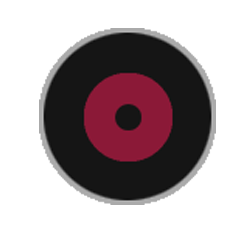
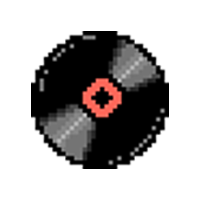
Final Assets Replacement & UFO Beam by Wren Wu.

Changed region(s): [[0.15, 0.12, 0.87, 0.9]]

diff --git a/src/GameScene.js b/src/GameScene.js
@@ -59,6 +59,8 @@ var switchDirections = false;
 var ScoreBoardTextArray = new Array();
 var Panel;
 var Image5S;
+var IfPunish5S = false;
+var Popupfactor = 0;
 
 
 var Bullet = new Phaser.Class({
@@ -138,9 +140,8 @@ function ShowPanel(data)
     }
   }
   Panel.setVisible(true)
-  Panel.alpha = 0.75;
+  Panel.alpha = 1.0;
 }
-
 function IndicatorCreate(BeamL, BeamR, Speed, AlphaFactor)
 {
   BeamL.alpha += AlphaFactor;
@@ -172,10 +173,10 @@ function DiscPulsing(DiscObject)
 {
   if(IfExpand)
   {
-    scale = Phaser.Math.Interpolation.SmoothStep(Pulsingfactor, 1.0, 1.2);//[1.0, 1.2]
+    scale = Phaser.Math.Interpolation.SmoothStep(Pulsingfactor, 1.0, 1.4);//[1.0, 1.2]
     Pulsingfactor += 0.16;
     DiscObject.setScale(scale);
-    if(scale >= 1.2)
+    if(scale >= 1.4)
     {
       IfExpand = false;
       IfShrink = true;
@@ -184,7 +185,7 @@ function DiscPulsing(DiscObject)
   }
   if(IfShrink)
   {
-    scale = Phaser.Math.Interpolation.SmoothStep(Pulsingfactor, 1.2, 1.0);//[1.2, 1.0]
+    scale = Phaser.Math.Interpolation.SmoothStep(Pulsingfactor, 1.4, 1.0);//[1.2, 1.0]
     Pulsingfactor += 0.16;
     DiscObject.setScale(scale);
     if(scale <= 1.0)
@@ -198,8 +199,17 @@ function DiscPulsing(DiscObject)
   }
   //console.log(scale)
 }
-
-
+function AddFiveSeconds(Image5S)
+{
+    posiy = Phaser.Math.Interpolation.SmoothStep(Popupfactor, 100, -150);
+    Popupfactor += 0.015;
+    Image5S.y = posiy;
+    if(Image5S.y <= -150)
+    {
+      IfPunish5S = false;
+      Popupfactor = 0;
+    }
+}
 function PlayerWin()
 {
   //TODO: WIN EFFECT
@@ -287,7 +297,16 @@ function ExitGame()
   //console.log(Name);
   game.scene.start("MenuScene",{Playername: scene.Playername});
 }
-
+function CreateUFOBeam(EnemyOject)
+{
+  UFOBeam.setPosition(EnemyOject.x, EnemyOject.y - 30);
+  UFOBeam.setAlpha(0.7);
+  UFOBeam.anims.play("UFOBeam_anim");
+  UFOBeam.once('animationcomplete', ()=>{
+    //console.log("Enemy Destroy")
+    EnemyOject.setActive(false).setVisible(false);
+  });
+}
 //isMoveByForce = true;
 function SwitchInputMode()
 {
@@ -339,35 +358,6 @@ function preload ()
 {
   // Load in images and sprites
   console.log("GameScene Loaded");
-  /*
-  this.load.spritesheet('player_handgun', 'assets/player_handgun.png',
-      { frameWidth: 66, frameHeight: 60 }
-  ); // Made by tokkatrain: https://tokkatrain.itch.io/top-down-basic-set
-  */
-
-  this.load.image('Player','assets/Sprites/Character_back1.png');
-  this.load.image('Player2','assets/Sprites/Character_back2.png');
-
-  this.load.image('Enemy1_1','assets/Sprites/enemy_a1.png');
-  this.load.image('Enemy2_1','assets/Sprites/enemy_b1.png');
-  this.load.image('Enemy3_1','assets/Sprites/enemy_c1.png');
-
-  this.load.image('Enemy1_2','assets/Sprites/enemy_a2.png');
-  this.load.image('Enemy2_2','assets/Sprites/enemy_b2.png');
-  this.load.image('Enemy3_2','assets/Sprites/enemy_c2.png');
-
-  this.load.image('projectile1','assets/Sprites/projectile1.png');
-  this.load.image('projectile2','assets/Sprites/projectile2.png');
-  this.load.image('projectile3','assets/Sprites/projectile3.png');
-  this.load.image('projectile4','assets/Sprites/projectile4.png');
-
-  this.load.image('background', 'assets/Sprites/background_v2.png');
-  this.load.image('Barrier','assets/Sprites/barrier.png');
-  this.load.image('Barrier2','assets/Sprites/barrier2.png');
-  this.load.image('Barrier3','assets/Sprites/barrier3.png');
-  this.load.image('Barrier4','assets/Sprites/barrier4.png');
-  this.load.image('Panel', 'assets/Panel.png');
-  this.load.image('5s','assets/Sprites/5S.png');
 }
 
 function BulletHitCallback(playerBullet, enemyBullet)
@@ -397,17 +387,30 @@ function create ()
   console.log(this.Playername);
   // Set score tracking bar
   scoreText = this.add.text(8, -68, 'Time: < 0 >', { fontFamily: 'font1', fontSize: '48px', fill: '#e0e0e0' }).setDepth(1);
-  Image5S = this.add.image(150,-5,"5s").setDepth(0).setAlpha(0);
+  Image5S = this.add.image(150,-5,"+5s").setDepth(2).setAlpha(0).setScale(1.5);
 
   // Set Indicator
-  Disc = this.add.image(this.game.renderer.width, this.game.renderer.height * 2 - 250, "disc").setDepth(1);
-  Disc.setAlpha(0.6);
-  BeamL1 = this.add.image(0, this.game.renderer.height * 2 - 250, "beam").setDepth(0).setAlpha(0);
-  BeamR1 = this.add.image(1600, this.game.renderer.height * 2 - 250, "beam").setDepth(0).setAlpha(0);
-  BeamL2 = this.add.image(0, this.game.renderer.height * 2 - 250, "beam").setDepth(0).setAlpha(0);
-  BeamR2 = this.add.image(1600, this.game.renderer.height * 2 - 250, "beam").setDepth(0).setAlpha(0);
-  BeamL3 = this.add.image(0, this.game.renderer.height * 2 - 250, "beam").setDepth(0).setAlpha(0);
-  BeamR3 = this.add.image(1600, this.game.renderer.height * 2 - 250, "beam").setDepth(0).setAlpha(0);
+  DiscMechine = this.add.image(this.game.renderer.width, this.game.renderer.height * 2 - 250, "discmechine").setDepth(1);
+  DiscBar = this.add.image(this.game.renderer.width + 45, this.game.renderer.height * 2 - 230, "discbar").setDepth(3);
+  Disc = this.add.image(this.game.renderer.width, this.game.renderer.height * 2 - 250, "disc").setDepth(2);
+  Disc.setAlpha(0.9);
+  BeamL1 = this.add.image(0, this.game.renderer.height * 2 - 250, "beam").setDepth(1).setAlpha(0);
+  BeamR1 = this.add.image(1600, this.game.renderer.height * 2 - 250, "beam").setDepth(1).setAlpha(0);
+  BeamL2 = this.add.image(0, this.game.renderer.height * 2 - 250, "beam").setDepth(1).setAlpha(0);
+  BeamR2 = this.add.image(1600, this.game.renderer.height * 2 - 250, "beam").setDepth(1).setAlpha(0);
+  BeamL3 = this.add.image(0, this.game.renderer.height * 2 - 250, "beam").setDepth(1).setAlpha(0);
+  BeamR3 = this.add.image(1600, this.game.renderer.height * 2 - 250, "beam").setDepth(1).setAlpha(0);
+
+  // Set UFO Beam Animation
+  UFOBeam = this.add.sprite(this.game.renderer.width, this.game.renderer.height, "ufobeam").setDepth(1).setAlpha(0).setScale(1.5);
+  this.anims.create({
+    key: "UFOBeam_anim",
+    frames: this.anims.generateFrameNumbers("ufobeam"),
+    frameRate: 36,
+    repeat: 0,
+    showOnStart: true,
+    hideOnComplete: true
+  })
 
   // Set world bounds
   this.physics.world.setBounds(0, 1000, 1600, 1200);
@@ -433,7 +436,7 @@ function create ()
   //isMoveByForce = true;
 
   // Add background, player, enemy, UI Elements
-  background = this.add.image(800, 600, 'background');
+  background = this.add.image(800, 700, 'background');
   volumeText = this.add.text(this.game.renderer.width * 2 - 300, -68, 'Volume: ', { fontFamily: 'font1', fontSize: '48px', fill: '#e0e0e0' }).setDepth(1);
   Volume_Plus_Button = this.add.image(this.game.renderer.width * 2 - 37, -44, "volume_plus_button").setDepth(1);
   Volume_Minus_Button = this.add.image(this.game.renderer.width * 2 - 90, -44, "volume_minus_button").setDepth(1);
@@ -459,20 +462,20 @@ function create ()
   UI_Win = this.add.image(800,600,'UI_Win').setDepth(1).setVisible(0);
   TimeScore_Text = this.add.text(this.game.renderer.width + 155, this.game.renderer.height - 30, '0', { fontFamily: 'font1', fontSize: '48px', fill: '#a32c10' }).setDepth(1).setVisible(0);  
   Exit_Button = this.add.image(this.game.renderer.width, this.game.renderer.height + 60,"exit_button").setDepth(1).setVisible(0);
-  Exit_Button.setScale(1.3);
+  Exit_Button.setScale(1.4);
   
   UI_Lose = this.add.image(800,600,'UI_Lose').setDepth(1).setVisible(0);
   PlayAgain_Yes_Button = this.add.image(this.game.renderer.width - 50, this.game.renderer.height + 58,"playagain_yes_button").setDepth(1).setVisible(0);
   PlayAgain_No_Button = this.add.image(this.game.renderer.width + 50, this.game.renderer.height + 60,"playagain_no_button").setDepth(1).setVisible(0);
-  PlayAgain_Yes_Button.setScale(1.3);
-  PlayAgain_No_Button.setScale(1.3);
+  PlayAgain_Yes_Button.setScale(1.4);
+  PlayAgain_No_Button.setScale(1.4);
 
-  Panel = this.add.image(1100,600,'Panel').setDepth(1).setVisible(false).setDisplaySize(700,800).setOrigin(0.5,0.5);
+  Panel = this.add.image(1100,600,'Panel').setDepth(1).setVisible(false).setOrigin(0.5,0.5);
   for(var i = 0; i < 10; i++)
   {
-    var ScoreText = this.add.text(1025-250, 240 + i*75 , 'No Record', { fontFamily: 'font1', fontSize: '48px', fill: '#FFFFFF' }).setDepth(2).setVisible(0);  
+    var ScoreText = this.add.text(1025-250, 320 + i*75 , 'No Record', { fontFamily: 'font1', fontSize: '48px', fill: '#FFFFFF' }).setDepth(2).setVisible(0);  
     ScoreBoardTextArray.push(ScoreText)
-    var ScoreText = this.add.text(1500-100, 240 + i*75 , '10000', { fontFamily: 'font1', fontSize: '48px', fill: '#FFFFFF' }).setDepth(2).setVisible(0).setOrigin(1,0);  
+    var ScoreText = this.add.text(1500-100, 320 + i*75 , '10000', { fontFamily: 'font1', fontSize: '48px', fill: '#FFFFFF' }).setDepth(2).setVisible(0).setOrigin(1,0);  
     ScoreBoardTextArray.push(ScoreText)
   }
   
@@ -533,7 +536,7 @@ function create ()
   // Set image/sprite properties
   UI_Win.setScale(1.5,1.5);
   UI_Lose.setScale(1.5,1.5);
-  background.setOrigin(0.5, 0.5).setDisplaySize(1600, 1200);
+  background.setOrigin(0.5, 0.5).setDisplaySize(1600, 1400);
   player.setOrigin(0.5, 0.5).setDisplaySize(88, 128).setCollideWorldBounds(true).setDrag(0);
   UI_Win.setOrigin(0.5,0.5);
   UI_Win.alpha = 0;
@@ -613,8 +616,9 @@ function create ()
       }
       if (!IsBeat)
       {
-        Image5S.alpha = 1;
-        Image5S.setPosition(150,-5);
+        IfPunish5S = true;
+        Image5S.setPosition(400,100);
+        Image5S.alpha = 0;
         this.cameras.main.shake(500);
         NowTime += 5000 // Time Punishment
         return;
@@ -645,7 +649,7 @@ function enemyHitCallback(enemyHit, bulletHit)
       // Kill enemy if health <= 0
       if (enemyHit.health <= 0)
       {
-         enemyHit.setActive(false).setVisible(false);
+         CreateUFOBeam(enemyHit);
       }
 
       // Destroy bullet
@@ -794,13 +798,19 @@ function update (time, delta)
   if (isLose) UI_Lose.alpha += 0.005*delta;
 
   UpdateEnemies();
+
   // Constrain velocity of player
   constrainVelocity(player, 350);
 
   //TODO: Change Enemies Behaviour, to adpat Music
   enemiesFire(enemies, time, this);
 
-  Image5S.y -= 0.25*delta;
+  if(IfPunish5S)
+  {
+    AddFiveSeconds(Image5S);
+    Image5S.alpha += 0.002*delta;
+  }
+
   if (!isWin && !isLose) CheckGameOver(player,enemies);
 
   // Debug for Win

diff --git a/src/LoadScene.js b/src/LoadScene.js
@@ -10,6 +10,8 @@ class LoadScene extends Phaser.Scene{
     preload()
     {
         this.load.image('title_bg','assets/Images/background_square.png');
+        this.load.image('backgroundSquare', 'assets/Sprites/background_v1.png');
+        this.load.image('background', 'assets/Sprites/background_v2.png');
         this.load.image('play_button','assets/Images/playbutton.png');
         this.load.image('option_button','assets/Images/optionbutton.png');  
         this.load.image('back_button','assets/Images/backbutton.png');
@@ -20,8 +22,41 @@ class LoadScene extends Phaser.Scene{
         this.load.image('exit_button','assets/Images/exitbutton.png');
         this.load.image('volume_plus_button','assets/Images/volume_plus_button.png');
         this.load.image('volume_minus_button','assets/Images/volume_minus_button.png');
+
+        
+        this.load.image('Player','assets/Sprites/Character_back1.png');
+        this.load.image('Player2','assets/Sprites/Character_back2.png');
+
+        this.load.image('Enemy1_1','assets/Sprites/enemy_a1.png');
+        this.load.image('Enemy2_1','assets/Sprites/enemy_b1.png');
+        this.load.image('Enemy3_1','assets/Sprites/enemy_c1.png');
+
+        this.load.image('Enemy1_2','assets/Sprites/enemy_a2.png');
+        this.load.image('Enemy2_2','assets/Sprites/enemy_b2.png');
+        this.load.image('Enemy3_2','assets/Sprites/enemy_c2.png');
+
+        this.load.image('ufo','assets/Sprites/Light1.png');
+        this.load.spritesheet('ufobeam','assets/Sprites/ufobeam.png',{
+            frameWidth: 48,
+            frameHeight: 128
+        });
+
+        this.load.image('projectile1','assets/Sprites/projectile1.png');
+        this.load.image('projectile2','assets/Sprites/projectile2.png');
+        this.load.image('projectile3','assets/Sprites/projectile3.png');
+        this.load.image('projectile4','assets/Sprites/projectile4.png');
+
+        this.load.image('Barrier','assets/Sprites/barrier.png');
+        this.load.image('Barrier2','assets/Sprites/barrier2.png');
+        this.load.image('Barrier3','assets/Sprites/barrier3.png');
+        this.load.image('Barrier4','assets/Sprites/barrier4.png');
+
         this.load.image('disc','assets/Images/disc.png');
-        this.load.image('beam','assets/Images/beam.png');
+        this.load.image('discmechine','assets/Images/discmechine.png');
+        this.load.image('discbar','assets/Images/bar.png');
+        this.load.image('beam','assets/Images/beam1.png');
+        this.load.image('Panel', 'assets/Images/panel.png');
+        this.load.image('+5s','assets/Images/+5s.png');
         this.load.audio('title_bgm','assets/Audio/bgm.wav')
         this.load.html('InputFieldHTML','assets/HTML/InputField.html');
 
@@ -58,7 +93,6 @@ class LoadScene extends Phaser.Scene{
     }
     create()
     {
-        //this.add.text(20, 20, "Loading game...", { fontFamily: 'font1', fontSize: '48px', fill: '#ffffff' });
         this.scene.start("MenuScene");
     }
 }

diff --git a/src/MenuScene.js b/src/MenuScene.js
@@ -29,7 +29,6 @@ class MenuScene extends Phaser.Scene{
             this.sound.stopAll();
             this.scene.start("GameScene",{Playername: this.Playername});
         })
-        
         OptionButton.on("pointerup",()=>{
             console.log("WORK IN PROGRESS")
         })
@@ -37,7 +36,7 @@ class MenuScene extends Phaser.Scene{
         {
             PlayButton.setVisible(false);
             OptionButton.setVisible(false);
-            var element = this.add.dom(400, 450).createFromCache('InputFieldHTML');
+            var element = this.add.dom(420, 500).createFromCache('InputFieldHTML');
             element.addListener('click');
             element.on('click', function (event) {
                 if (event.target.name === 'playButton')

diff --git a/assets/HTML/InputField.html b/assets/HTML/InputField.html
@@ -7,5 +7,5 @@
     }
 </style>
 <div style="font-family:font1; position:absolute; left:-1000px; visibility:hidden;">.</div>
-<input type="text" name="nameField" placeholder="Enter your name." style="font-family:font1;font-size: 25px" οnkeyup="this.value=this.value.replace(/[^\w_]/g,'');">
-<input type="button" name="playButton" value="Let's Play" style="font-family:font1; font-size: 25px"><br />
+<input type="text" name="nameField" placeholder="Enter your name: " style="font-family:font1;font-size: 24px" οnkeyup="this.value=this.value.replace(/[^\w_]/g,'');">
+<input type="button" name="playButton" value="Let's play" style="font-family:font1; font-size: 24px"><br />
